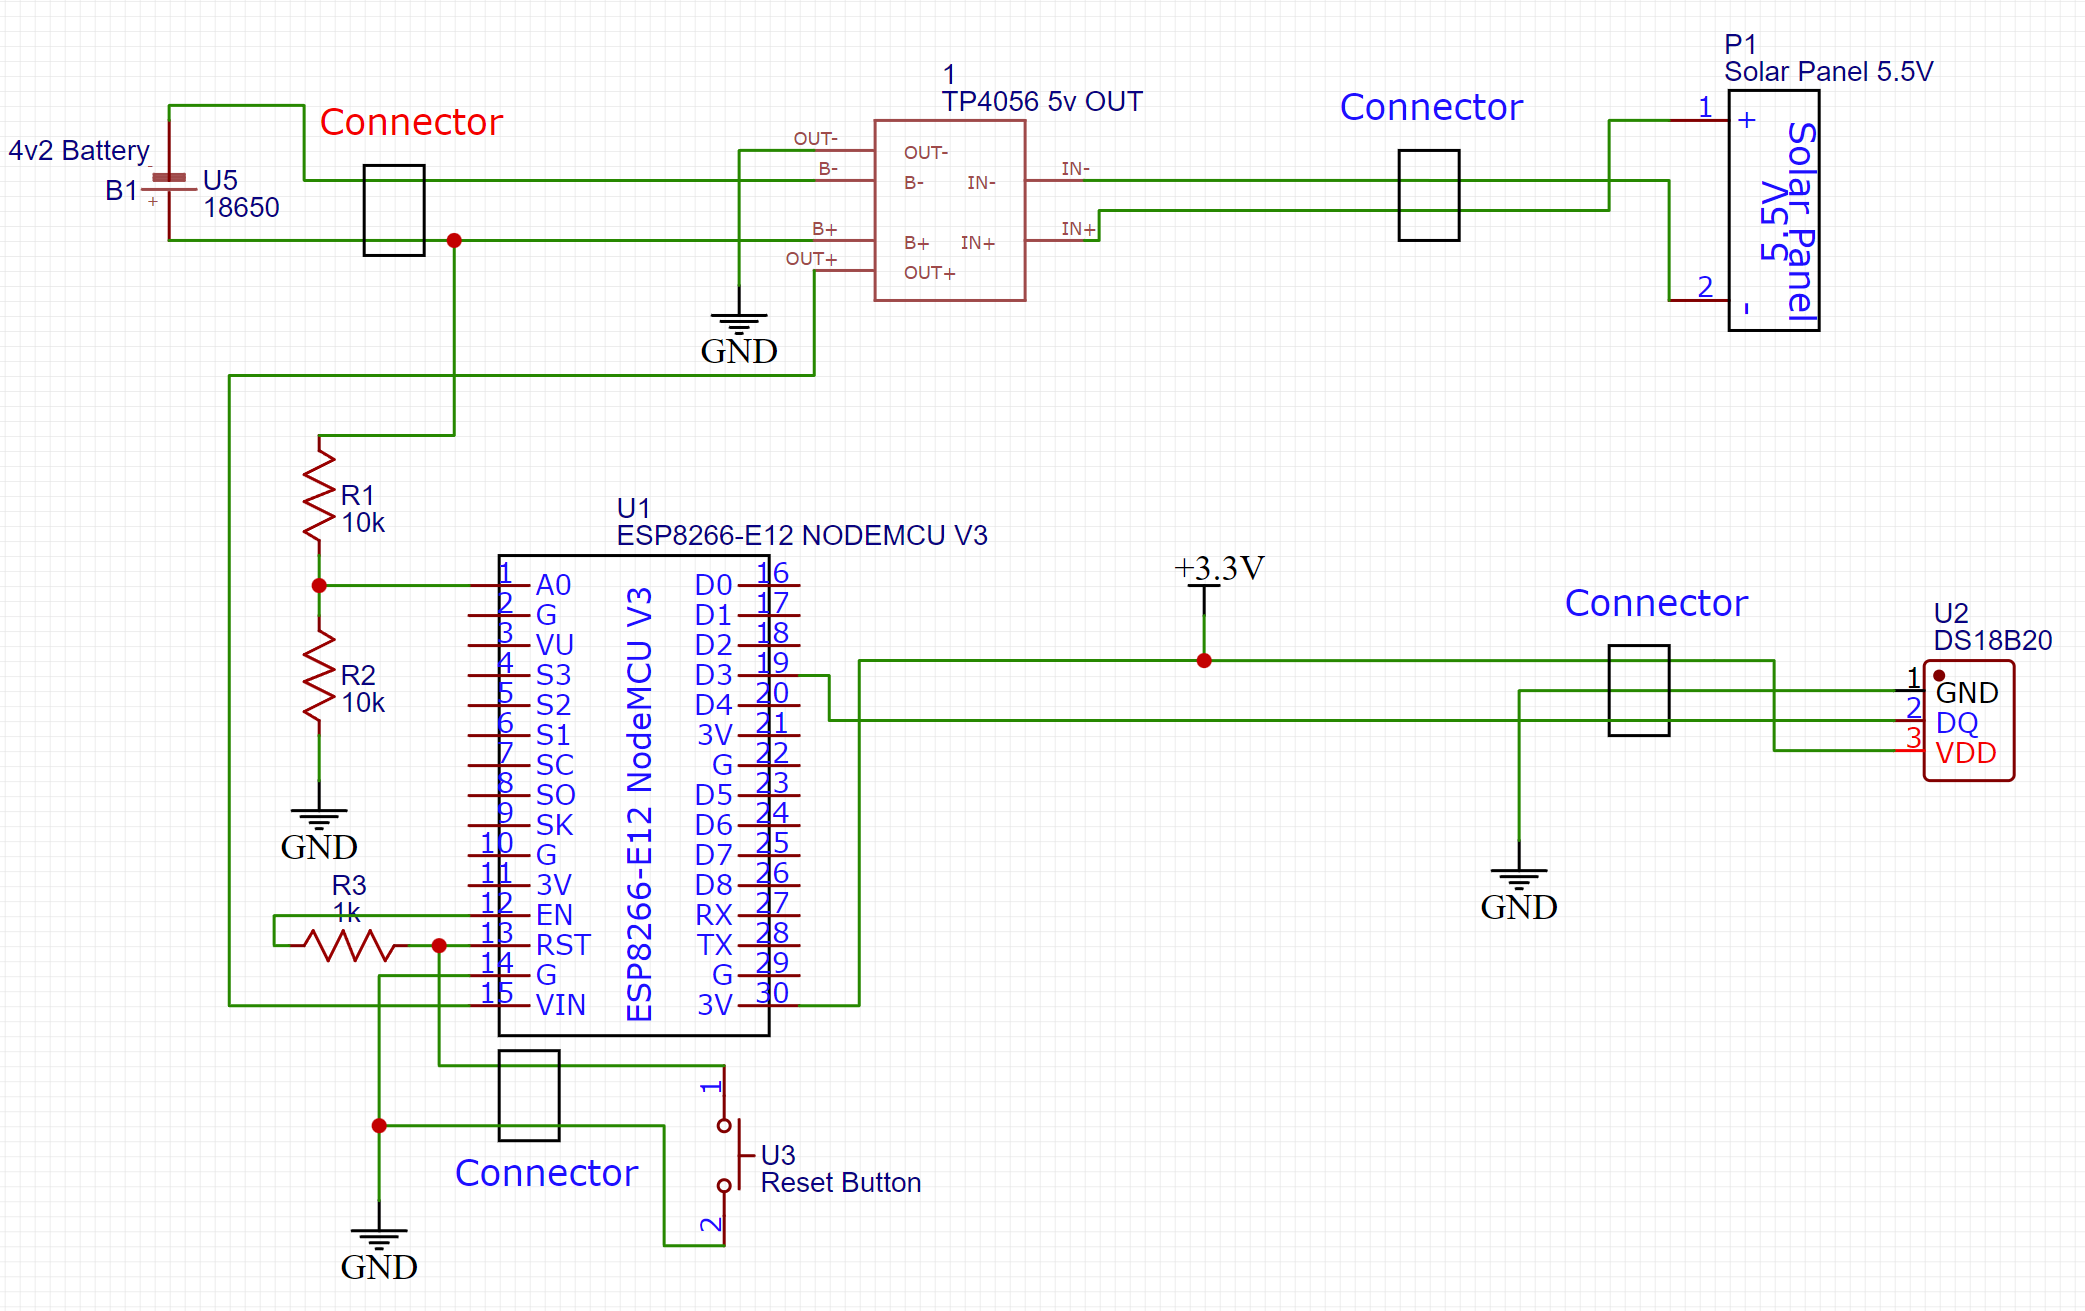
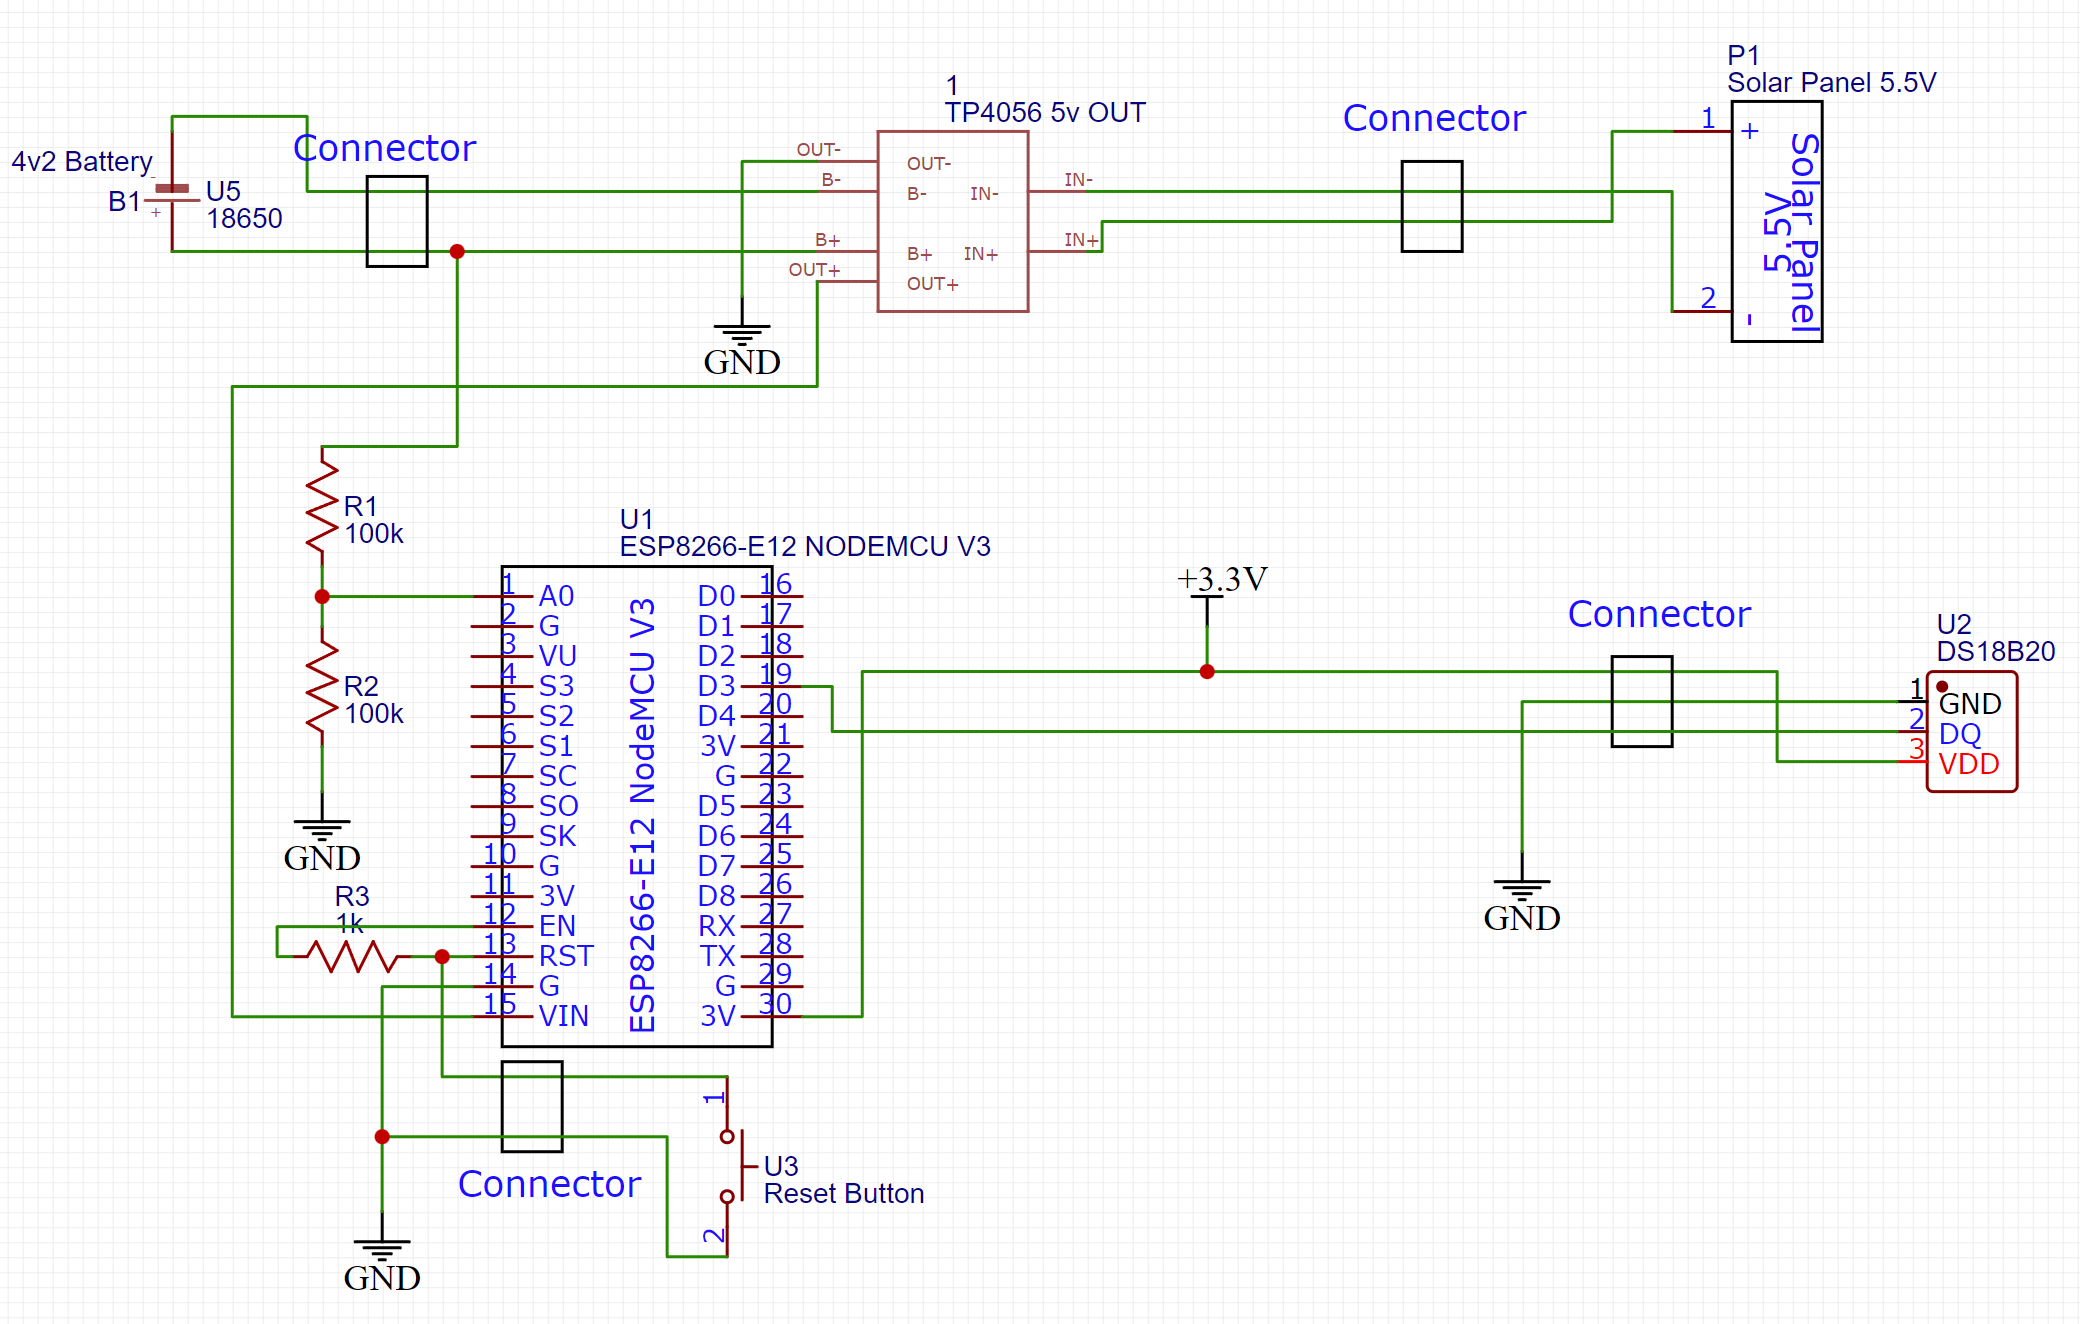
support for DHT sensors

Changed region(s): [[0.0, 0.0305, 1.0, 0.9764]]

diff --git a/src/Device.cpp b/src/Device.cpp
@@ -10,9 +10,8 @@
 CDevice::CDevice() {
 
   tMillisUp = millis();
-
-#ifdef TEMP_SENSOR
   sensorReady = true;
+
   tLastReading = 0;
 #ifdef TEMP_SENSOR_DS18B20
   oneWire = new OneWire(TEMP_SENSOR_PIN);
@@ -39,19 +38,33 @@ CDevice::CDevice() {
     sensorReady = false;
   }
 #endif
+#ifdef TEMP_SENSOR_DHT
+  _dht = new DHT_Unified(TEMP_SENSOR_PIN, TEMP_SENSOR_DHT_TYPE);
+  _dht->begin();
+  sensor_t sensor;
+  _dht->temperature().getSensor(&sensor);
+  Log.noticeln("DHT temperature sensor name(%s) v(%u) id(%u) range(%F - %F) res(%F)",
+    sensor.name, sensor.version, sensor.sensor_id, 
+    sensor.min_value, sensor.max_value, sensor.resolution);
+  _dht->humidity().getSensor(&sensor);
+  Log.noticeln("DHT humidity sensor name(%s) v(%u) id(%u) range(%F - %F) res(%F)",
+    sensor.name, sensor.version, sensor.sensor_id, 
+    sensor.min_value, sensor.max_value, sensor.resolution);
+  minDelayMs = sensor.min_delay / 1000;
 #endif
 
   Log.infoln("Device initialized");
 }
 
 CDevice::~CDevice() { 
-#ifdef TEMP_SENSOR
 #ifdef TEMP_SENSOR_DS18B20
   delete _ds18b20;
 #endif
 #ifdef TEMP_SENSOR_BME280
   delete _bme;
 #endif
+#ifdef TEMP_SENSOR_DHT
+  delete _dht;
 #endif
   Log.noticeln("Device destroyed");
 }
@@ -72,11 +85,15 @@ uint32_t CDevice::getDeviceId() {
 
 void CDevice::loop() {
 
-  if (sensorReady && millis() - tMillisTemp > 1000) {
+  uint32_t delay = 1000;
+  #ifdef TEMP_SENSOR_DHT
+    delay = minDelayMs;
+  #endif
+
+  if (sensorReady && millis() - tMillisTemp > delay) {
     if (millis() - tLastReading < STALE_READING_AGE_MS) {
       tMillisTemp = millis();
     }
-    #ifdef TEMP_SENSOR
     #ifdef TEMP_SENSOR_DS18B20
       if (_ds18b20->isConversionComplete()) {
         _temperature = _ds18b20->getTempC();
@@ -94,12 +111,37 @@ void CDevice::loop() {
       _altitude = _bme->readAltitude();
       tLastReading = millis();
     #endif
+    #ifdef TEMP_SENSOR_DHT
+      sensors_event_t event;
+      bool goodRead = true;
+      // temperature
+      _dht->temperature().getEvent(&event);
+      if (isnan(event.temperature)) {
+        Log.warningln(F("Error reading DHT temperature!"));
+        goodRead = false;
+      } else {
+        _temperature = event.temperature;
+        Log.verboseln("DHT temp: %FC %FF", _temperature, _temperature*1.8+32);
+      }
+      // humidity
+      _dht->humidity().getEvent(&event);
+      if (isnan(event.relative_humidity)) {
+        Log.warningln(F("Error reading DHT humidity!"));
+        goodRead = false;
+      }
+      else {
+        _humidity = event.relative_humidity;
+        Log.verboseln("DHT humidity: %F%%", _humidity);
+      }
+      if (goodRead) {
+        tLastReading = millis();
+      }
     #endif
   }
 
 }
 
-#ifdef TEMP_SENSOR_DS18B20
+#if defined(TEMP_SENSOR_DS18B20) || defined(TEMP_SENSOR_DHT)
 float CDevice::getTemperature(bool *current) {
   if (current != NULL) { 
     *current = millis() - tLastReading < STALE_READING_AGE_MS; 
@@ -116,6 +158,15 @@ float CDevice::getBatteryVoltage(bool *current) {
 }
 
 #ifdef TEMP_SENSOR_BME280
-float CDevice::getHumidity(bool *current) const;
-float CDevice::getAltitude(bool *current) const;
+float CDevice::getHumidity(bool *current);
+float CDevice::getAltitude(bool *current);
+#endif
+
+#ifdef TEMP_SENSOR_DHT
+float CDevice::getHumidity(bool *current) {
+  if (current != NULL) { 
+    *current = millis() - tLastReading < STALE_READING_AGE_MS; 
+  }
+  return _humidity;
+}
 #endif

diff --git a/src/wifi/WifiManager.cpp b/src/wifi/WifiManager.cpp
@@ -406,7 +406,6 @@ void CWifiManager::postSensorUpdate() {
   bool pJson = configuration.mqttDataType == MQTT_DATA_JSON || configuration.mqttDataType == MQTT_DATA_BOTH;
   bool pScalar = configuration.mqttDataType == MQTT_DATA_SCALAR || configuration.mqttDataType == MQTT_DATA_BOTH;
 
-#ifdef TEMP_SENSOR
   v = sensorProvider->getTemperature(&current);
   if (configuration.tempUnit == TEMP_UNIT_FAHRENHEIT) {
     v = v * 1.8 + 32;
@@ -438,29 +437,29 @@ void CWifiManager::postSensorUpdate() {
       sensorJson["humidit_unit"] = "percent";
     }
   }
-#endif
 
 #ifdef BATTERY_SENSOR
-  v = (float)(batteryVoltage + sensorProvider->getBatteryVoltage(NULL)) / 2.0;
-  if (pScalar) {
-    sprintf_P(topic, "%s/battery", configuration.mqttTopic);
-    mqtt.publish(topic,String(v, 2).c_str());
-    Log.noticeln("Sent '%Fv' battery voltage to MQTT topic '%s'", v, topic);
-  }
-  if (pJson) {
-    sensorJson["battery_v"] = v;
-  }
+  if (configuration.battVoltsDivider > 0) {
+    v = (float)(batteryVoltage + sensorProvider->getBatteryVoltage(NULL)) / 2.0;
+    if (pScalar) {
+      sprintf_P(topic, "%s/battery", configuration.mqttTopic);
+      mqtt.publish(topic,String(v, 2).c_str());
+      Log.noticeln("Sent '%Fv' battery voltage to MQTT topic '%s'", v, topic);
+    }
+    if (pJson) {
+      sensorJson["battery_v"] = v;
+    }
 
-  iv = analogRead(BATTERY_SENSOR_ADC_PIN);
-  if (pScalar) {
-    sprintf_P(topic, "%s/adc_raw", configuration.mqttTopic);
-    mqtt.publish(topic,String(iv).c_str());
-    Log.noticeln("Sent '%i' raw ADC value to MQTT topic '%s'", iv, topic);
+    iv = analogRead(BATTERY_SENSOR_ADC_PIN);
+    if (pScalar) {
+      sprintf_P(topic, "%s/adc_raw", configuration.mqttTopic);
+      mqtt.publish(topic,String(iv).c_str());
+      Log.noticeln("Sent '%i' raw ADC value to MQTT topic '%s'", iv, topic);
+    }
+    if (pJson) {
+      sensorJson["adc_raw"] = iv;
+    }
   }
-  if (pJson) {
-    sensorJson["adc_raw"] = iv;
-  }
-
 #endif
 
   if (!isApMode()) {
@@ -573,7 +572,6 @@ void CWifiManager::printHTMLTop(Print *p) {
   bool current;
   float fv;
 
-#ifdef TEMP_SENSOR
   fv = sensorProvider->getTemperature(&current);
   if (configuration.tempUnit == TEMP_UNIT_FAHRENHEIT) {
     fv = fv * 1.8 + 32;
@@ -583,7 +581,7 @@ void CWifiManager::printHTMLTop(Print *p) {
 
   snprintf(vs, sizeof(vs), "<h1>Temperature: %0.2f&#176; %s %s</h1>", fv, tunit, current ? "" : "(stale)");
   strcat(s, vs);
-#endif
+
 #ifdef BATTERY_SENSOR
   fv = sensorProvider->getBatteryVoltage(&current);
   snprintf(vs, sizeof(vs), "<h3>Battery: %0.2fv %s</h3>", fv, current ? "" : "(stale)");

diff --git a/src/Device.h b/src/Device.h
@@ -1,11 +1,9 @@
-#ifndef _DEVICE_MANAGER_H
-#define _DEVICE_MANAGER_H
+#pragma once
 
 #include <functional>
 #include "Configuration.h"
 #include "wifi/SensorProvider.h"
 
-#ifdef TEMP_SENSOR  
 #ifdef TEMP_SENSOR_DS18B20
   #include <OneWire.h>
   #include <DS18B20.h>
@@ -14,6 +12,9 @@
   #include <Adafruit_Sensor.h>
   #include <Adafruit_BME280.h>
 #endif
+#ifdef TEMP_SENSOR_DHT
+  #include <DHT.h>
+  #include <DHT_U.h>
 #endif
 
 #define STALE_READING_AGE_MS 10000 // 10 sec
@@ -28,11 +29,13 @@ public:
   virtual uint32_t getDeviceId();
   virtual unsigned long getUptime() { return millis() - tMillisUp; };
 
-#ifdef TEMP_SENSOR_DS18B20
+#if defined(TEMP_SENSOR_DS18B20) || defined(TEMP_SENSOR_DHT)
   virtual float getTemperature(bool *current);
 #endif
-#ifdef TEMP_SENSOR_BME280
+#if defined(TEMP_SENSOR_BME280) || defined(TEMP_SENSOR_DHT)
   virtual float getHumidity(bool *current);
+#endif
+#if defined(TEMP_SENSOR_BME280)
   virtual float getAltitude(bool *current);
 #endif
 #ifdef BATTERY_SENSOR
@@ -42,7 +45,6 @@ public:
 private:
   unsigned long tMillisUp;
 
-#ifdef TEMP_SENSOR
   unsigned long tMillisTemp;
   unsigned long tLastReading;
   bool sensorReady;
@@ -56,8 +58,10 @@ private:
   float _humidity, _altitude;
   Adafruit_BME280 *_bme;
 #endif
+#ifdef TEMP_SENSOR_DHT
+  float _humidity;
+  DHT_Unified *_dht;
+  unsigned long minDelayMs;
 #endif
 
 };
-
-#endif

diff --git a/src/Configuration.h b/src/Configuration.h
@@ -1,5 +1,4 @@
-#ifndef _CONFIGURATION_H
-#define _CONFIGURATION_H
+#pragma once
 
 #include <Arduino.h>
 #include <functional>
@@ -49,17 +48,18 @@
   #define LED_COLOR_ORDER GRB
 #endif
 
-#define TEMP_SENSOR
-#ifdef TEMP_SENSOR
-  #define TEMP_UNIT_CELSIUS     0
-  #define TEMP_UNIT_FAHRENHEIT  1
-  #define TEMP_SENSOR_DS18B20
-  //#define TEMP_SENSOR_BME280
-  #ifdef ESP32
-    #define TEMP_SENSOR_PIN 0
-  #elif ESP8266
-    #define TEMP_SENSOR_PIN D3
-  #endif
+#define TEMP_UNIT_CELSIUS     0
+#define TEMP_UNIT_FAHRENHEIT  1
+//#define TEMP_SENSOR_DS18B20
+//#define TEMP_SENSOR_BME280
+#define TEMP_SENSOR_DHT
+#ifdef ESP32
+  #define TEMP_SENSOR_PIN 0
+#elif ESP8266
+  #define TEMP_SENSOR_PIN D3
+#endif
+#ifdef TEMP_SENSOR_DHT
+  #define TEMP_SENSOR_DHT_TYPE    DHT22
 #endif
 
 #define BATTERY_SENSOR  // ADC A0 using 0-3.3v voltage divider
@@ -106,9 +106,7 @@ struct configuration_t {
   char name[128];
   float battVoltsDivider;
   uint16_t deepSleepDurationSec; // 0 - deep sleep disabled, stay awake
-  #ifdef TEMP_SENSOR
-    uint8_t tempUnit;
-  #endif
+  uint8_t tempUnit;
 
   char _loaded[7]; // used to check if EEPROM was correctly set
   
@@ -122,5 +120,3 @@ void EEPROM_clearFactoryReset();
 void EEPROM_saveConfig();
 void EEPROM_loadConfig();
 void EEPROM_wipe();
-
-#endif

diff --git a/src/Configuration.cpp b/src/Configuration.cpp
@@ -66,9 +66,7 @@ void EEPROM_loadConfig() {
 
     configuration.battVoltsDivider = BATTERY_VOLTS_DIVIDER;
     configuration.deepSleepDurationSec = DEEP_SLEEP_INTERVAL_SEC;
-    #ifdef TEMP_SENSOR
-      configuration.tempUnit = TEMP_UNIT_CELSIUS;
-    #endif
+    configuration.tempUnit = TEMP_UNIT_CELSIUS;
 
     EEPROM_saveConfig();
   }

diff --git a/src/wifi/WifiManager.h b/src/wifi/WifiManager.h
@@ -1,5 +1,4 @@
-#ifndef _WIFI_MANAGER_H
-#define _WIFI_MANAGER_H
+#pragma once
 
 #ifdef ESP32
   #include <WiFi.h>
@@ -64,5 +63,3 @@ public:
   bool isRebootNeeded() { return rebootNeeded; }
   bool isJobDone() { return !isApMode() && postedSensorUpdate; }
 };
-
-#endif

diff --git a/src/wifi/SensorProvider.h b/src/wifi/SensorProvider.h
@@ -1,5 +1,4 @@
-#ifndef _SENSOR_PROVIDER_H
-#define _SENSOR_PROVIDER_H
+#pragma once
 
 #include "Configuration.h"
 
@@ -12,5 +11,3 @@ public:
   virtual uint32_t getDeviceId() { return 0; };
   virtual unsigned long getUptime() { return 0; };
 };
-
-#endif

diff --git a/src/BaseManager.h b/src/BaseManager.h
@@ -1,5 +1,4 @@
-#ifndef _BASE_MANAGER_H
-#define _BASE_MANAGER_H
+#pragma once
 
 #include "Configuration.h"
 
@@ -26,5 +25,3 @@ public:
 
   virtual void loop() {};
 };
-
-#endif
